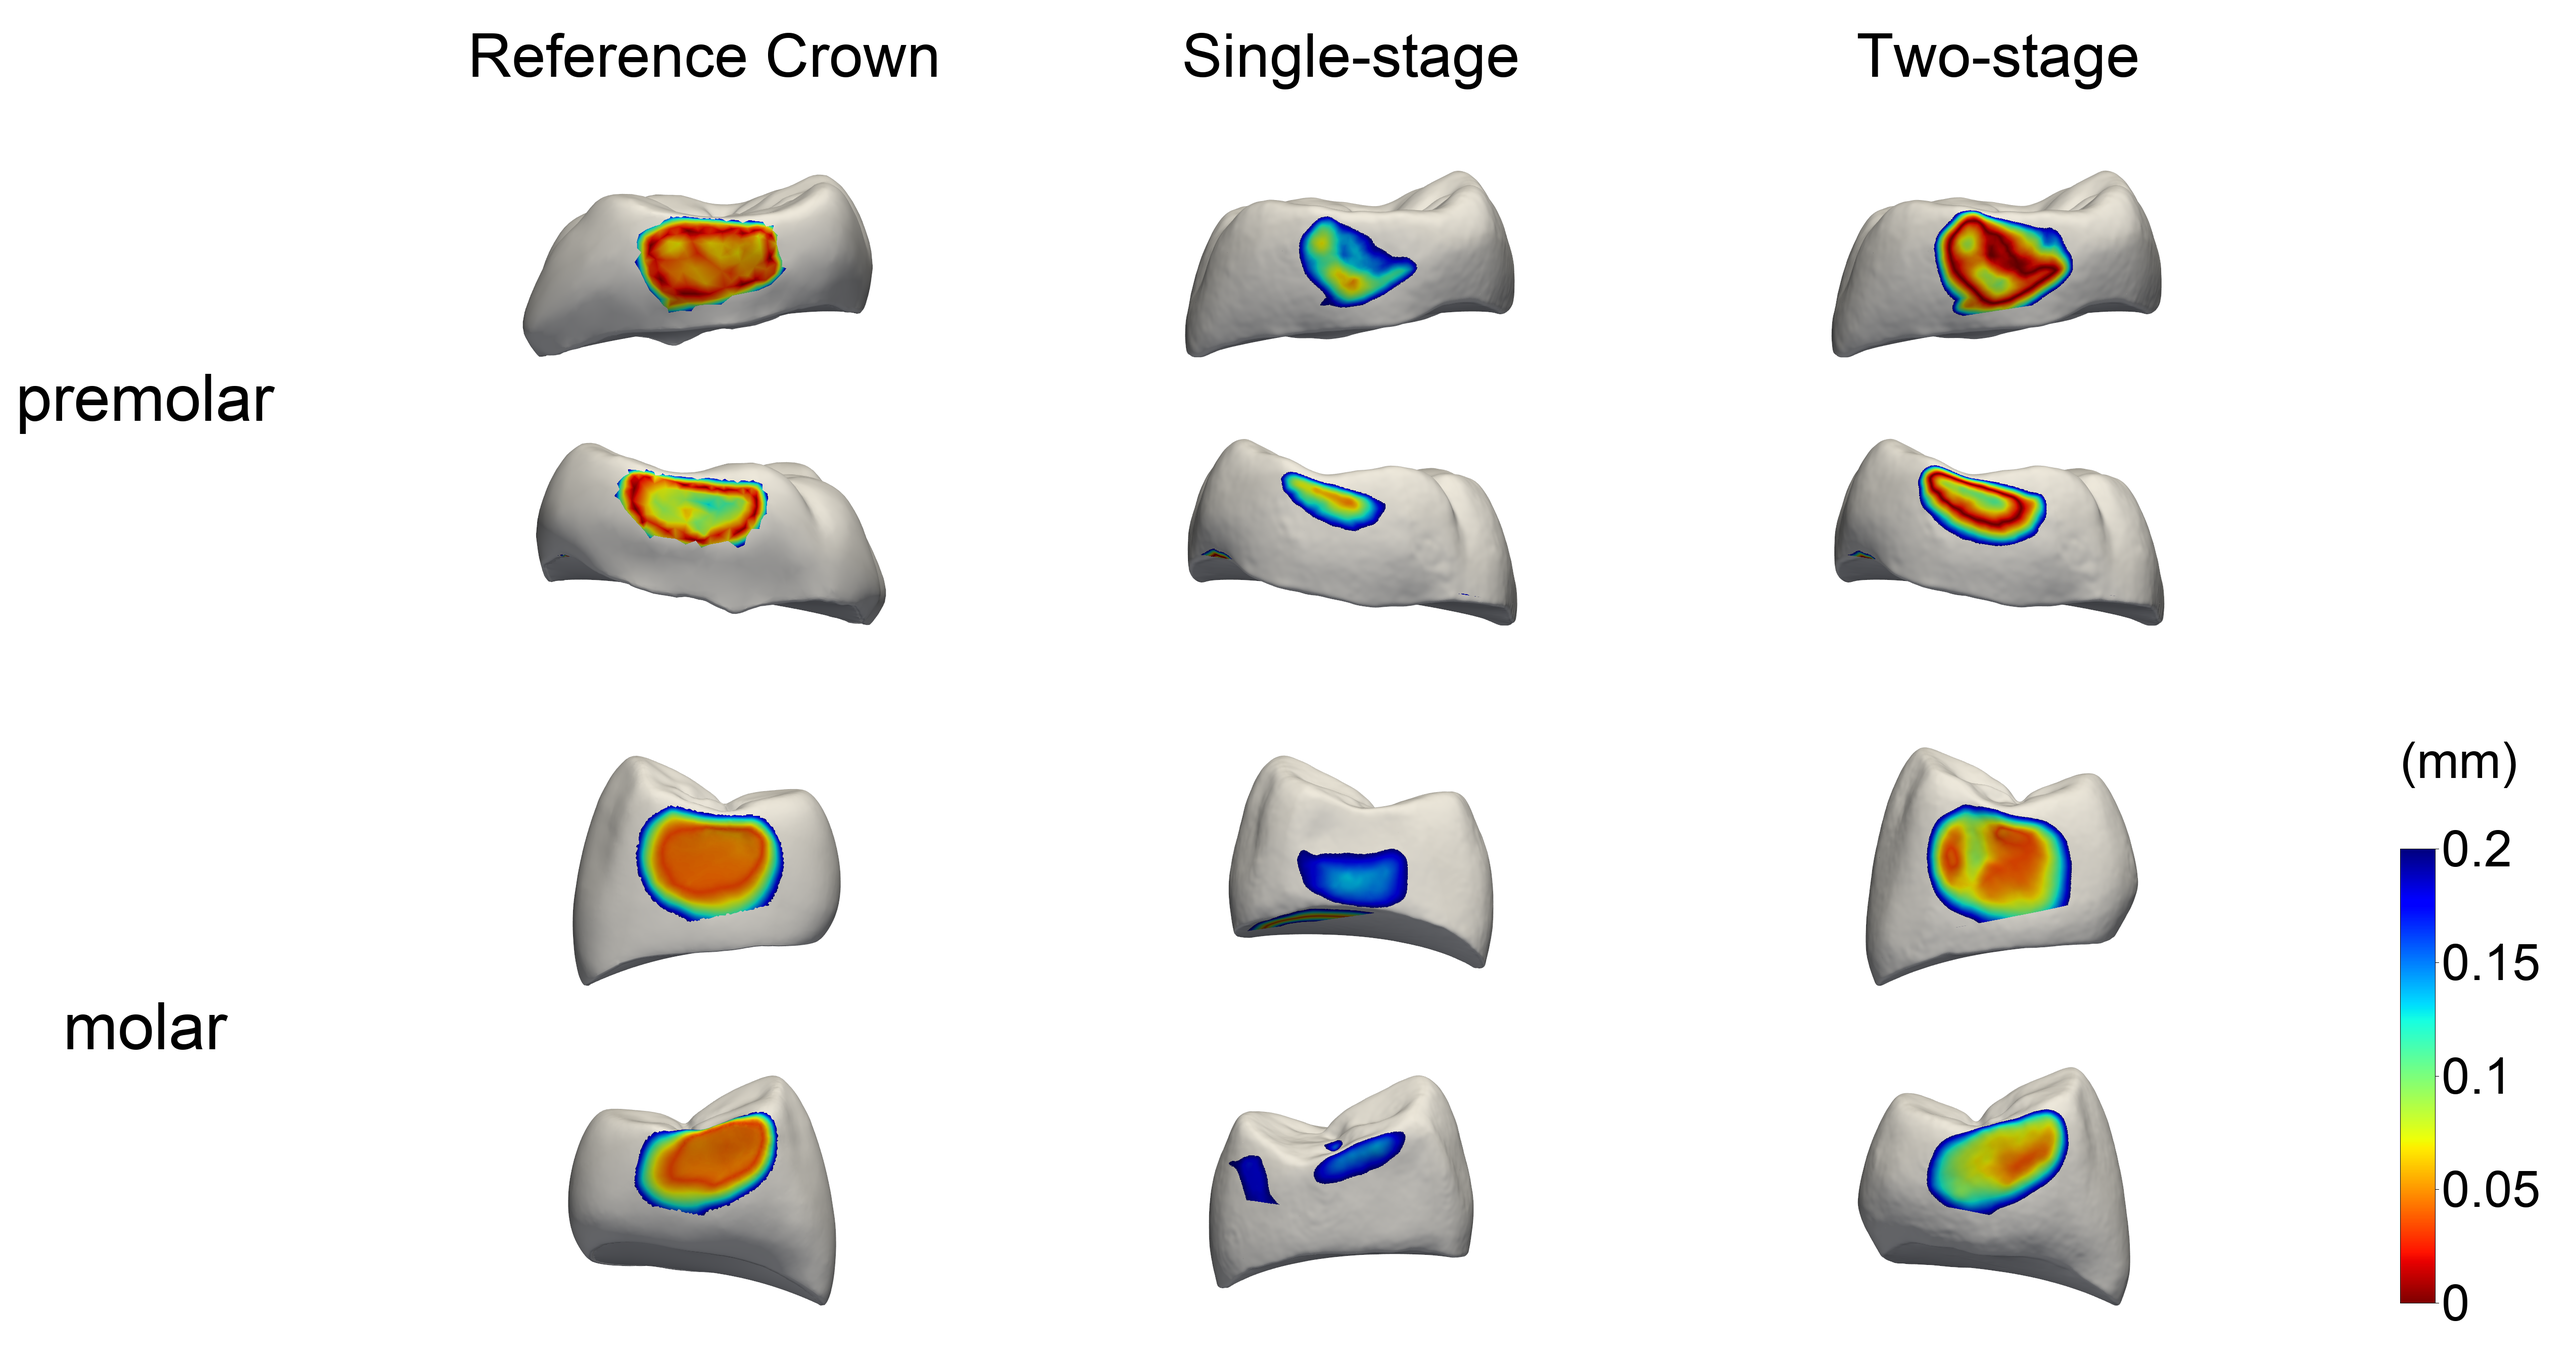
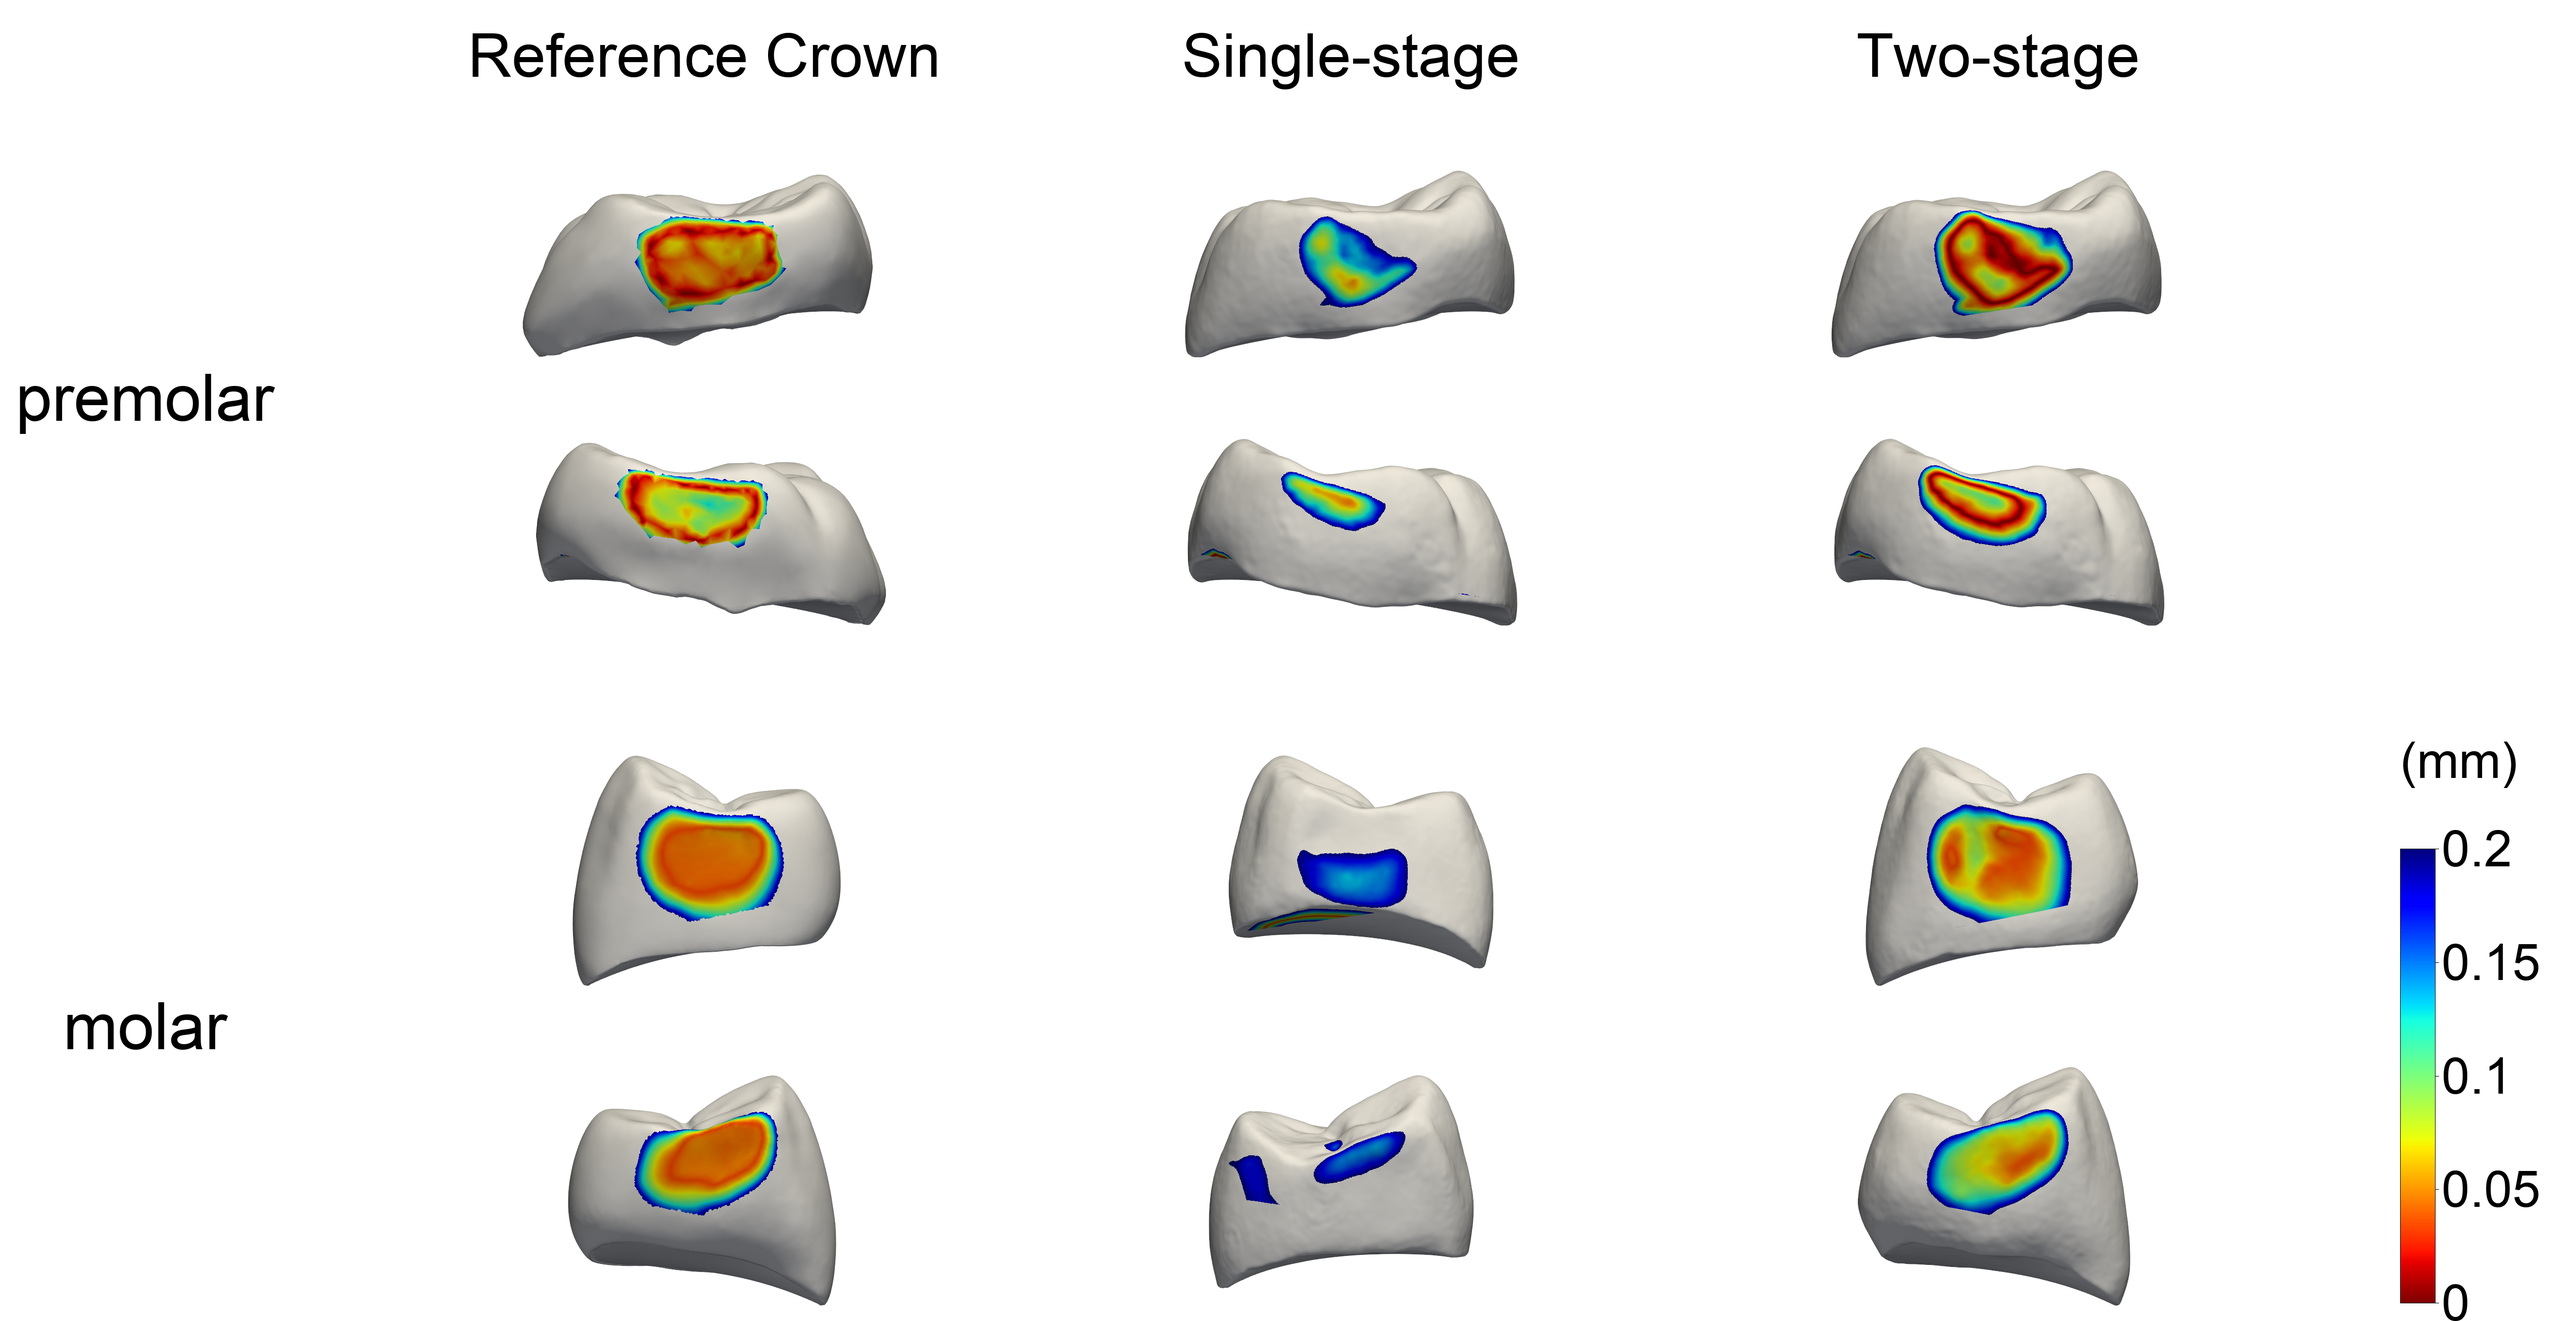
opt images

diff --git a/figures/ablation_adjacent/step3_merge_imgs.py b/figures/ablation_adjacent/step3_merge_imgs.py
@@ -240,6 +240,11 @@ def main() -> None:
         draw.line((bar_x + args.colorbar_thickness, tick_y, bar_x + args.colorbar_thickness + 6, tick_y), fill="black")
         draw.text((bar_x + args.colorbar_thickness + 12, tick_y), label,
                   font=colorbar_font, fill="black", anchor="lm")
+    background = Image.new("RGB", canvas.size, args.background)
+    content_bounds = ImageChops.difference(canvas, background).getbbox()
+    if content_bounds is not None and content_bounds[3] < canvas.height:
+        canvas = canvas.crop((0, 0, canvas.width, content_bounds[3]))
+
     output = args.output.expanduser()
     if not output.is_absolute():
         output = SCRIPT_DIR / output
